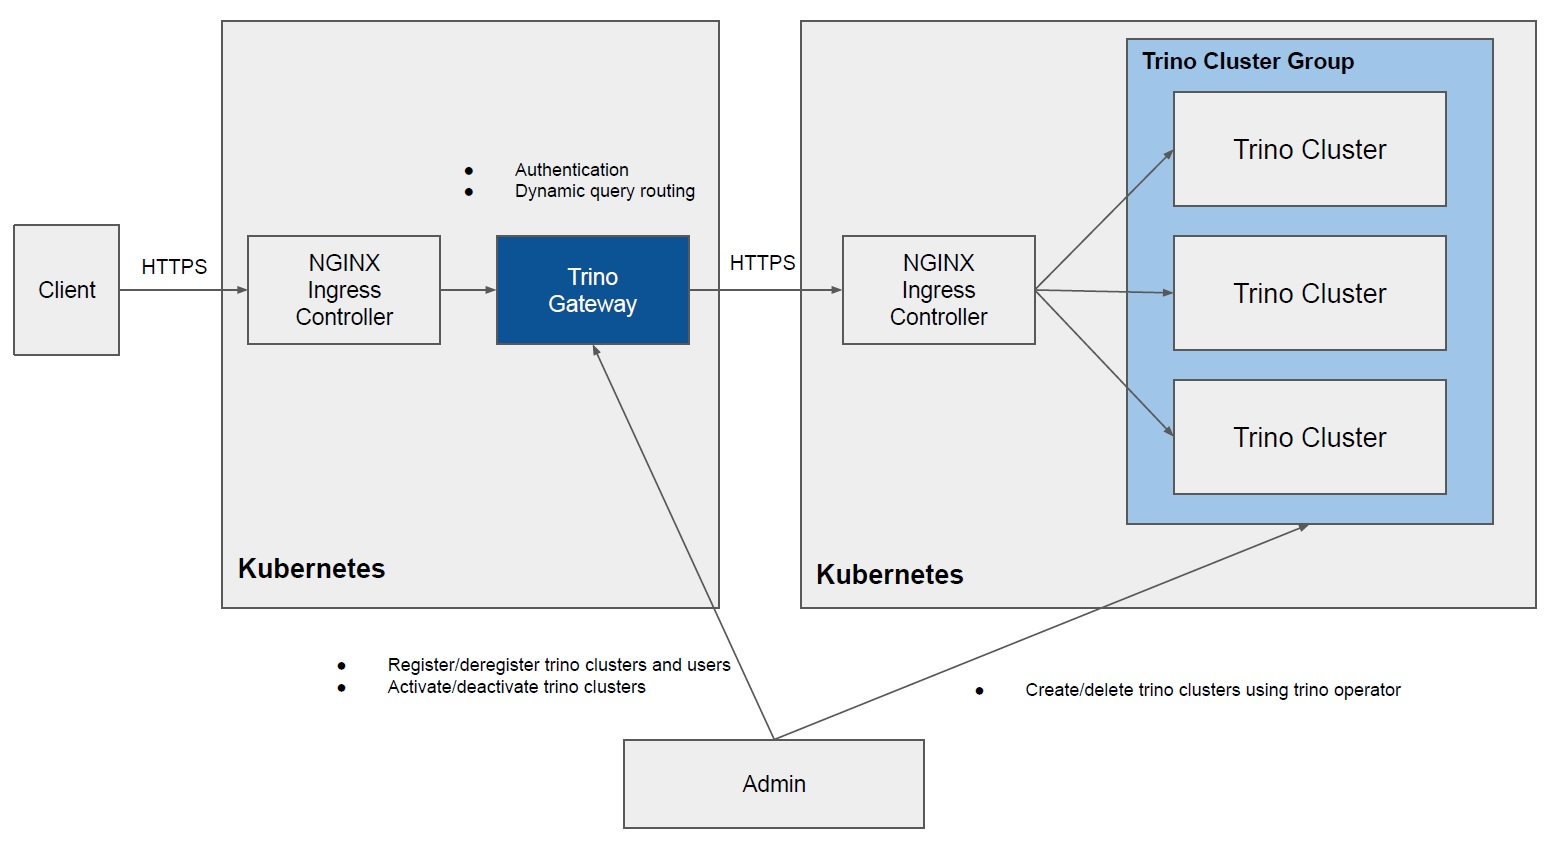
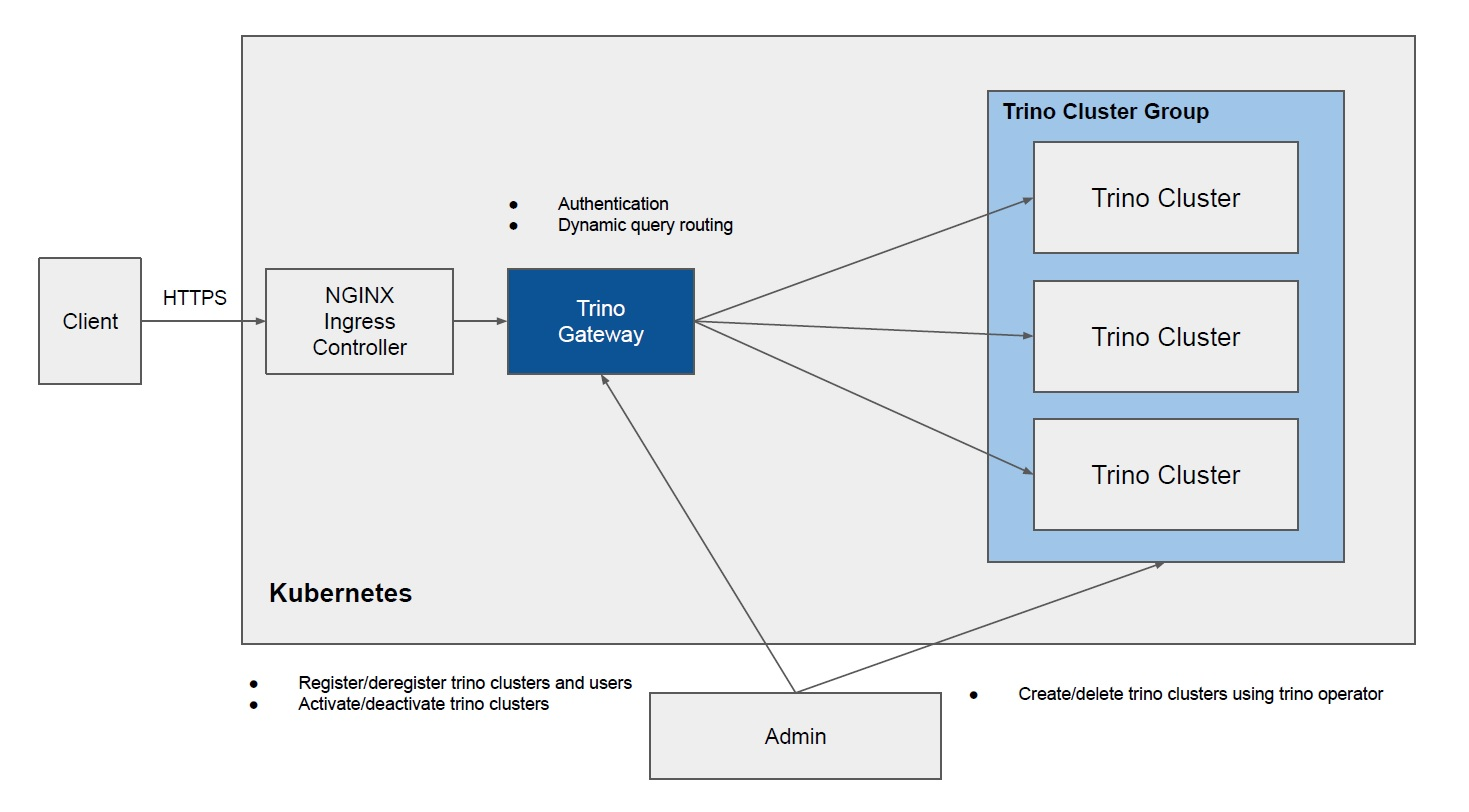
readme updated...

diff --git a/trino-ecosystem/trino-gateway/README.md b/trino-ecosystem/trino-gateway/README.md
@@ -89,14 +89,17 @@ helm install \
 trino-gateway \
 --create-namespace \
 --namespace trino-gateway \
---version v1.1.0 \
---set dataroastermysql.storage.storageClass=oci \
+--version v1.2.0 \
 --set ingress.proxyHostName=trino-gateway-proxy-test.cloudchef-labs.com \
 --set ingress.restHostName=trino-gateway-rest-test.cloudchef-labs.com \
+--set dataroastermysql.storage.storageClass=oci \
+--set redis.global.storageClass=oci \
+--set redis.replica.replicaCount=1 \
 dataroaster-trino-gateway/dataroaster-trino-gateway;
 ```
-* `dataroastermysql.storage.storageClass` which is the storage class for the dependency mysql needs to be changed to suit to your kubernetes cluster.
 * `ingress.proxyHostName` and `ingress.restHostName` need to be replaced with the registered host names to dns above.
+* `dataroastermysql.storage.storageClass` which is the storage class for the dependency mysql needs to be changed to suit to your kubernetes cluster.
+* `redis.global.storageClass` and `redis.replica.replicaCount` are the dependency redis storage class and replica count individually.
  
 Now, make sure certificates have been created successfully.
 ```
@@ -279,113 +282,6 @@ kubectl apply -f cluster-3.yaml;
 Now three trino clusters have been created.
 
 
-## Create Ingresses for trino cluster coordinator services
-
-### Add ingress host names to public dns server
-
-```
-trino-cluster-etl-test.cloudchef-labs.com ---> 146.56.150.205
-trino-cluster-etl-2-test.cloudchef-labs.com ---> 146.56.150.205
-trino-cluster-etl-3-test.cloudchef-labs.com ---> 146.56.150.205
-```
-
-These host names will be used when trino cluster ingresses are created.
-
-### Create Trino Cluster Ingresses
-
-We are going to create three ingresses for the trino cluster coordinator services created before.
-
-
-```
-cat <<EOF > trino-cluster-etl-ingress.yaml
-apiVersion: networking.k8s.io/v1
-kind: Ingress
-metadata:
-  annotations:
-    cert-manager.io/cluster-issuer: letsencrypt-prod
-    nginx.ingress.kubernetes.io/ssl-redirect: "false"
-  name: trino-cluster-etl-ingress
-  namespace: trino-cluster-etl
-spec:
-  ingressClassName: nginx
-  rules:
-  - host: trino-cluster-etl-test.cloudchef-labs.com
-    http:
-      paths:
-      - backend:
-          service:
-            name: trino-coordinator-service
-            port:
-              number: 8080
-        path: /
-        pathType: ImplementationSpecific
-  tls:
-  - hosts:
-    - trino-cluster-etl-test.cloudchef-labs.com
-    secretName: trino-cluster-etl-test.cloudchef-labs.com-tls
-EOF
-
-cat <<EOF > trino-cluster-etl-2-ingress.yaml
-apiVersion: networking.k8s.io/v1
-kind: Ingress
-metadata:
-  annotations:
-    cert-manager.io/cluster-issuer: letsencrypt-prod
-    nginx.ingress.kubernetes.io/ssl-redirect: "false"
-  name: trino-cluster-etl-ingress
-  namespace: trino-cluster-etl-2
-spec:
-  ingressClassName: nginx
-  rules:
-  - host: trino-cluster-etl-2-test.cloudchef-labs.com
-    http:
-      paths:
-      - backend:
-          service:
-            name: trino-coordinator-service
-            port:
-              number: 8080
-        path: /
-        pathType: ImplementationSpecific
-  tls:
-  - hosts:
-    - trino-cluster-etl-2-test.cloudchef-labs.com
-    secretName: trino-cluster-etl-2-test.cloudchef-labs.com-tls
-EOF
-
-
-cat <<EOF > trino-cluster-etl-3-ingress.yaml
-apiVersion: networking.k8s.io/v1
-kind: Ingress
-metadata:
-  annotations:
-    cert-manager.io/cluster-issuer: letsencrypt-prod
-    nginx.ingress.kubernetes.io/ssl-redirect: "false"
-  name: trino-cluster-etl-ingress
-  namespace: trino-cluster-etl-3
-spec:
-  ingressClassName: nginx
-  rules:
-  - host: trino-cluster-etl-3-test.cloudchef-labs.com
-    http:
-      paths:
-      - backend:
-          service:
-            name: trino-coordinator-service
-            port:
-              number: 8080
-        path: /
-        pathType: ImplementationSpecific
-  tls:
-  - hosts:
-    - trino-cluster-etl-3-test.cloudchef-labs.com
-    secretName: trino-cluster-etl-3-test.cloudchef-labs.com-tls
-EOF
-
-kubectl apply -f trino-cluster-etl-ingress.yaml;
-kubectl apply -f trino-cluster-etl-2-ingress.yaml;
-kubectl apply -f trino-cluster-etl-3-ingress.yaml;
-```
 
 ## Register trino clusters to trino gateway
 
@@ -409,6 +305,7 @@ https://trino-gateway-rest-test.cloudchef-labs.com/v1/users/create \
 ```
 
 ### Register trino clusters
+We need register three trino coordinator services.
 
 ```
 # register cluster 1.
@@ -416,7 +313,7 @@ curl -XPOST \
 https://trino-gateway-rest-test.cloudchef-labs.com/v1/cluster/create \
 -d  "cluster_name=etl-trino-cluster-1" \
 -d  "cluster_type=etl" \
--d  "url=https://trino-cluster-etl-test.cloudchef-labs.com" \
+-d  "url=http://trino-coordinator-service.trino-cluster-etl.svc:8080" \
 -d  "activated=true" \
 -d  "group_name=etl_group";
 
@@ -425,7 +322,7 @@ curl -XPOST \
 https://trino-gateway-rest-test.cloudchef-labs.com/v1/cluster/create \
 -d  "cluster_name=etl-trino-cluster-2" \
 -d  "cluster_type=etl" \
--d  "url=https://trino-cluster-etl-2-test.cloudchef-labs.com" \
+-d  "url=http://trino-coordinator-service.trino-cluster-etl-2.svc:8080" \
 -d  "activated=true" \
 -d  "group_name=etl_group";
 
@@ -435,12 +332,12 @@ curl -XPOST \
 https://trino-gateway-rest-test.cloudchef-labs.com/v1/cluster/create \
 -d  "cluster_name=etl-trino-cluster-3" \
 -d  "cluster_type=etl" \
--d  "url=https://trino-cluster-etl-3-test.cloudchef-labs.com" \
--d  "activated=true" \
--d  "group_name=etl_group";
+-d  "url=http://trino-coordinator-service.trino-cluster-etl-3.svc:8080" \
 -d  "activated=true" \
 -d  "group_name=etl_group";
 ```
+
+
 
 ## Run queries with client
 
